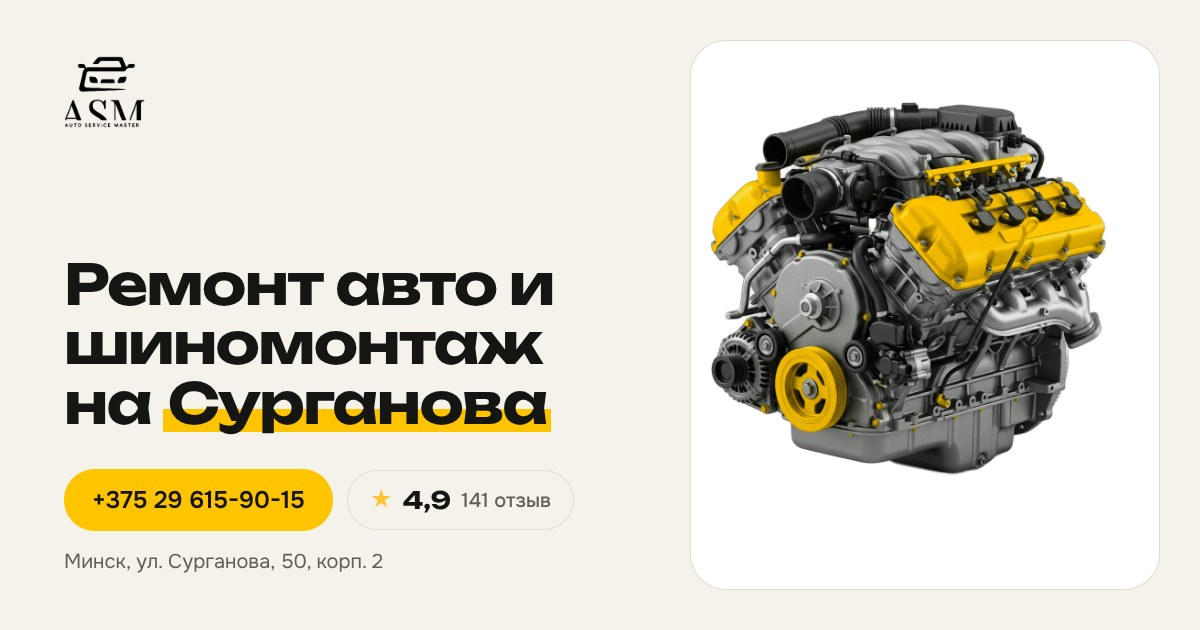
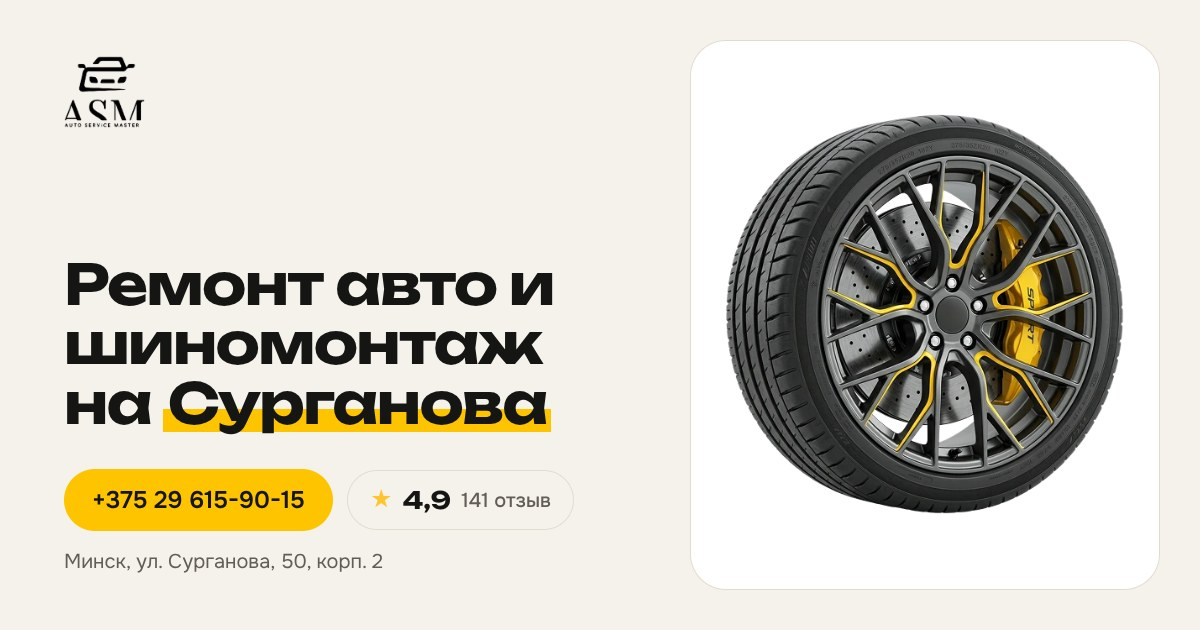
АСМ: вернул колесо с кругом, «Особенно хорошо знаем» — в бегущую строку; метки в карточках без картинки — как обычные, в две колонки
Claude-Session: https://claude.ai/code/session_016NbEm95whaVwUBYNA7vRPL

Changed region(s): [[0.5858, 0.1508, 0.9558, 0.8143]]

diff --git a/avtoservismaster/index.html b/avtoservismaster/index.html
@@ -14,15 +14,15 @@
 <meta property="og:url" content="https://d1trepes.github.io/sites/avtoservismaster/">
 <meta property="og:title" content="АвтоСервисМастер — ремонт авто и шиномонтаж на ул. Сурганова, Минск">
 <meta property="og:description" content="Диагностика, двигатель, ходовая, электрика, DSG, шиномонтаж. Рейтинг 4,9 на Яндекс Картах.">
-<meta property="og:image" content="https://d1trepes.github.io/sites/avtoservismaster/img/og.jpg?v=0b1d86d7">
+<meta property="og:image" content="https://d1trepes.github.io/sites/avtoservismaster/img/og.jpg?v=72bd8a9b">
 <meta property="og:image:width" content="1200">
 <meta property="og:image:height" content="630">
 <meta name="twitter:card" content="summary_large_image">
-<link rel="preload" as="image" href="img/hero-engine-yellow.webp" fetchpriority="high">
+<link rel="preload" as="image" href="photos/hero-wheel.webp" fetchpriority="high">
 <link rel="preconnect" href="https://fonts.googleapis.com">
 <link rel="preconnect" href="https://fonts.gstatic.com" crossorigin>
 <link href="https://fonts.googleapis.com/css2?family=Onest:wght@400;500;600&family=Unbounded:wght@500;700&display=swap" rel="stylesheet">
-<link rel="stylesheet" href="../blank/blank.css?v=0a09c5b5">
+<link rel="stylesheet" href="../blank/blank.css?v=8eac185e">
 <script>document.documentElement.classList.add("js")</script>
 <script type="application/ld+json">
 {
@@ -30,7 +30,7 @@
   "@type": "AutoRepair",
   "name": "АвтоСервисМастер",
   "url": "https://d1trepes.github.io/sites/avtoservismaster/",
-  "image": "https://d1trepes.github.io/sites/avtoservismaster/img/og.jpg?v=0b1d86d7",
+  "image": "https://d1trepes.github.io/sites/avtoservismaster/img/og.jpg?v=72bd8a9b",
   "telephone": "+375296159015",
   "address": {
     "@type": "PostalAddress",
@@ -90,7 +90,7 @@
       <div class="now rv" style="--d:0.25s" data-schedule='[{&quot;d&quot;:[1,2,3,4,5],&quot;from&quot;:9,&quot;to&quot;:19}]' hidden><i></i><span></span></div>
       <div class="trust rv" style="--d:0.3s"><b>4,9</b><div><span class="stars" aria-label="5 из 5"><svg viewBox="0 0 20 20" fill="currentColor" aria-hidden="true"><path d="M10 1.5l2.6 5.5 6 .7-4.5 4.1 1.2 5.9L10 14.8l-5.3 2.9 1.2-5.9L1.4 7.7l6-.7z"/></svg><svg viewBox="0 0 20 20" fill="currentColor" aria-hidden="true"><path d="M10 1.5l2.6 5.5 6 .7-4.5 4.1 1.2 5.9L10 14.8l-5.3 2.9 1.2-5.9L1.4 7.7l6-.7z"/></svg><svg viewBox="0 0 20 20" fill="currentColor" aria-hidden="true"><path d="M10 1.5l2.6 5.5 6 .7-4.5 4.1 1.2 5.9L10 14.8l-5.3 2.9 1.2-5.9L1.4 7.7l6-.7z"/></svg><svg viewBox="0 0 20 20" fill="currentColor" aria-hidden="true"><path d="M10 1.5l2.6 5.5 6 .7-4.5 4.1 1.2 5.9L10 14.8l-5.3 2.9 1.2-5.9L1.4 7.7l6-.7z"/></svg><svg viewBox="0 0 20 20" fill="currentColor" aria-hidden="true"><path d="M10 1.5l2.6 5.5 6 .7-4.5 4.1 1.2 5.9L10 14.8l-5.3 2.9 1.2-5.9L1.4 7.7l6-.7z"/></svg></span><span style="display:block;margin-top:4px">141 отзыв на Яндекс Картах</span></div></div>
     </div>
-    <div class="car m rv" style="--d:0.15s"><img src="img/hero-engine-yellow.webp" alt="Двигатель — ремонт и диагностика двигателей в автосервисе на Сурганова, Минск" fetchpriority="high"></div>
+    <div class="car m circ rv" style="--d:0.15s"><img src="photos/hero-wheel.webp" alt="Колесо с жёлтым диском — шиномонтаж АвтоСервисМастер в Минске" fetchpriority="high"></div>
   </div>
 </section>
 <section id="otzyvy" style="padding-top:0"><div class="wrap">
@@ -122,9 +122,10 @@
       <span class="stars" aria-label="5 из 5"><svg viewBox="0 0 20 20" fill="currentColor" aria-hidden="true"><path d="M10 1.5l2.6 5.5 6 .7-4.5 4.1 1.2 5.9L10 14.8l-5.3 2.9 1.2-5.9L1.4 7.7l6-.7z"/></svg><svg viewBox="0 0 20 20" fill="currentColor" aria-hidden="true"><path d="M10 1.5l2.6 5.5 6 .7-4.5 4.1 1.2 5.9L10 14.8l-5.3 2.9 1.2-5.9L1.4 7.7l6-.7z"/></svg><svg viewBox="0 0 20 20" fill="currentColor" aria-hidden="true"><path d="M10 1.5l2.6 5.5 6 .7-4.5 4.1 1.2 5.9L10 14.8l-5.3 2.9 1.2-5.9L1.4 7.7l6-.7z"/></svg><svg viewBox="0 0 20 20" fill="currentColor" aria-hidden="true"><path d="M10 1.5l2.6 5.5 6 .7-4.5 4.1 1.2 5.9L10 14.8l-5.3 2.9 1.2-5.9L1.4 7.7l6-.7z"/></svg><svg viewBox="0 0 20 20" fill="currentColor" aria-hidden="true"><path d="M10 1.5l2.6 5.5 6 .7-4.5 4.1 1.2 5.9L10 14.8l-5.3 2.9 1.2-5.9L1.4 7.7l6-.7z"/></svg></span><p>Отличный сервис и всегда хороший подход. Возим к ним все свои машины, на шиномонтаж всегда можно быстро попасть.</p>
     </article></div></div>
   </div></div></section>
+<section id="marki" class="sec-marq" style="padding-top:0"><div class="marq rv" aria-label="Дизельные авто, Коммерческий транспорт, Ремонт DSG, Эндоскопия двигателя"><div><span>Дизельные авто</span><span>Коммерческий транспорт</span><span>Ремонт DSG</span><span>Эндоскопия двигателя</span><span>Дизельные авто</span><span>Коммерческий транспорт</span><span>Ремонт DSG</span><span>Эндоскопия двигателя</span><span>Дизельные авто</span><span>Коммерческий транспорт</span><span>Ремонт DSG</span><span>Эндоскопия двигателя</span><span>Дизельные авто</span><span>Коммерческий транспорт</span><span>Ремонт DSG</span><span>Эндоскопия двигателя</span></div></div></section>
 <section id="uslugi" style="padding-top:0"><div class="wrap">
   <h2 class="rv">Что мы делаем</h2>
-  <div class="hlr rv"><b>Особенно хорошо знаем:</b><span><svg viewBox="0 0 24 24" fill="none" stroke="currentColor" stroke-width="2" stroke-linecap="round" stroke-linejoin="round" aria-hidden="true"><path d="M12 3s5 5.5 5 9.5a5 5 0 0 1-10 0C7 8.5 12 3 12 3z"/></svg>Дизельные авто</span><span><svg viewBox="0 0 24 24" fill="none" stroke="currentColor" stroke-width="2" stroke-linecap="round" stroke-linejoin="round" aria-hidden="true"><path d="M2 7h12v9H2zM14 10h4l4 3v3h-8z"/><circle cx="6.5" cy="17.5" r="1.8"/><circle cx="17.5" cy="17.5" r="1.8"/></svg>Коммерческий транспорт</span><span><svg viewBox="0 0 24 24" fill="none" stroke="currentColor" stroke-width="2" stroke-linecap="round" stroke-linejoin="round" aria-hidden="true"><circle cx="5" cy="6" r="2"/><circle cx="12" cy="6" r="2"/><circle cx="19" cy="6" r="2"/><circle cx="5" cy="18" r="2"/><circle cx="12" cy="18" r="2"/><path d="M5 8v8M12 8v8M19 8v4H5"/></svg>Ремонт DSG</span><span><svg viewBox="0 0 24 24" fill="none" stroke="currentColor" stroke-width="2" stroke-linecap="round" stroke-linejoin="round" aria-hidden="true"><circle cx="10" cy="10" r="6"/><path d="M14.5 14.5 21 21"/><circle cx="10" cy="10" r="2"/></svg>Эндоскопия двигателя</span></div><div class="svc side"><article class="sv rv" style="--span:6">
+  <div class="svc side"><article class="sv rv" style="--span:6">
     <div class="pic"><img src="img/svc-engine.webp" alt="Поршень и шестерня ГРМ — ремонт двигателя" loading="lazy" decoding="async"></div>
     <h3>Двигатель и диагностика</h3>
     <div class="chips"><span>Компьютерная диагностика</span><span>Эндоскопия двигателя</span><span>Ремонт двигателя</span><span>Ремонт ГБЦ</span><span>Замена ГРМ</span><span>Ремонт турбокомпрессора</span><span>Система охлаждения</span><span>Топливная система</span><span>Ремонт и чистка форсунок</span><span>Замена масла</span><span>Выхлопная система</span><span>Удаление катализаторов</span></div>

diff --git a/blank/blank.css b/blank/blank.css
@@ -630,11 +630,9 @@ h2 em{font-style:normal;color:var(--ac-tx)}
   .cnt:not(:has(.hrs)) .info .acts{margin:0 0 0 auto}
   .cnt:not(:has(.hrs)) .map{min-height:380px}
 }
-/* карточка услуги без картинки и с небольшим числом меток: метки плитками на всю карточку, вровень с соседней */
+/* карточка услуги без картинки и с небольшим числом меток: обычные метки, но в две колонки на всю ширину карточки */
 @media(min-width:961px){
-  .svc.side .sv:not(:has(.pic)):not(:has(.chips span:nth-child(7))) .chips{display:grid;grid-template-columns:repeat(2,minmax(0,1fr));grid-auto-rows:1fr;align-self:stretch;gap:8px}
-  .svc.side .sv:not(:has(.pic)):not(:has(.chips span:nth-child(7))) .chips span{display:flex;align-items:center;padding:12px 16px;border-radius:var(--r-sm);font-size:15.5px;background:var(--bg2)}
-  [data-theme="светлая"] .svc.side .sv:not(:has(.pic)):not(:has(.chips span:nth-child(7))) .chips span{background:var(--bg)}
+  .svc.side .sv:not(:has(.pic)):not(:has(.chips span:nth-child(7))) .chips{display:grid;grid-template-columns:repeat(2,minmax(0,1fr));gap:8px}
 }
 
 /* ---------- МАСТЕРСКАЯ: компактнее заголовок и первый экран, акцент — подчёркивание ---------- */
@@ -681,4 +679,3 @@ h2 em{font-style:normal;color:var(--ac-tx)}
 [data-style="плакат"] .hero::before{outline:1px solid color-mix(in srgb,var(--on-ac) 22%,transparent);outline-offset:clamp(28px,4vw,56px)}
 [data-style="плакат"] .hero::after{content:"";position:absolute;left:-20px;bottom:-10px;width:min(46vw,520px);height:220px;background-image:radial-gradient(color-mix(in srgb,var(--on-ac) 30%,transparent) 1.6px,transparent 1.8px);background-size:22px 22px;-webkit-mask:radial-gradient(ellipse at 0% 100%,#000 10%,transparent 70%);mask:radial-gradient(ellipse at 0% 100%,#000 10%,transparent 70%);pointer-events:none}
 @media(max-width:900px){[data-style="плакат"] .hero::after{height:160px;width:70vw}}
-@media(min-width:961px){.svc.side .sv:not(:has(.pic)):not(:has(.chips span:nth-child(7))) .chips span:last-child:nth-child(odd){grid-column:span 2}}

diff --git a/tablica/index.html b/tablica/index.html
@@ -36,7 +36,7 @@ dl{display:flex;flex-wrap:wrap;gap:6px 18px;font-size:13px}dt{color:var(--mut);f
 .nt{font-size:13px;color:var(--mut);border-top:1px dashed var(--line);padding-top:10px}
 @media(max-width:760px){.kpi{grid-template-columns:repeat(2,1fr)}.grid{grid-template-columns:1fr}h1{font-size:26px}}
 </style></head><body><div class="w">
-<div class="top"><div><h1>Мои клиенты</h1><p>Сайты для автосервисов · обновлено 25 октября в 13:25</p></div></div>
+<div class="top"><div><h1>Мои клиенты</h1><p>Сайты для автосервисов · обновлено 25 октября в 13:36</p></div></div>
 <div class="kpi">
 <div class="k"><b>11</b><span>всего сервисов</span></div>
 <div class="k"><b>10</b><span>демо ждут звонка</span></div>

diff --git a/gtgarage/index.html b/gtgarage/index.html
@@ -22,7 +22,7 @@
 <link rel="preconnect" href="https://fonts.googleapis.com">
 <link rel="preconnect" href="https://fonts.gstatic.com" crossorigin>
 <link href="https://fonts.googleapis.com/css2?family=Golos+Text:wght@400;500;600&family=Oswald:wght@500;600;700&display=swap" rel="stylesheet">
-<link rel="stylesheet" href="../blank/blank.css?v=0a09c5b5">
+<link rel="stylesheet" href="../blank/blank.css?v=8eac185e">
 <script>document.documentElement.classList.add("js")</script>
 <script type="application/ld+json">
 {

diff --git a/moy-mehanik/index.html b/moy-mehanik/index.html
@@ -22,7 +22,7 @@
 <link rel="preconnect" href="https://fonts.googleapis.com">
 <link rel="preconnect" href="https://fonts.gstatic.com" crossorigin>
 <link href="https://fonts.googleapis.com/css2?family=Golos+Text:wght@400;500;600&family=Oswald:wght@500;600;700&display=swap" rel="stylesheet">
-<link rel="stylesheet" href="../blank/blank.css?v=0a09c5b5">
+<link rel="stylesheet" href="../blank/blank.css?v=8eac185e">
 <script>document.documentElement.classList.add("js")</script>
 <script type="application/ld+json">
 {

diff --git a/sto-777/index.html b/sto-777/index.html
@@ -22,7 +22,7 @@
 <link rel="preconnect" href="https://fonts.googleapis.com">
 <link rel="preconnect" href="https://fonts.gstatic.com" crossorigin>
 <link href="https://fonts.googleapis.com/css2?family=Golos+Text:wght@400;500;600&family=Oswald:wght@500;600;700&display=swap" rel="stylesheet">
-<link rel="stylesheet" href="../blank/blank.css?v=0a09c5b5">
+<link rel="stylesheet" href="../blank/blank.css?v=8eac185e">
 <script>document.documentElement.classList.add("js")</script>
 <script type="application/ld+json">
 {

diff --git a/gans-motors/index.html b/gans-motors/index.html
@@ -22,7 +22,7 @@
 <link rel="preconnect" href="https://fonts.googleapis.com">
 <link rel="preconnect" href="https://fonts.gstatic.com" crossorigin>
 <link href="https://fonts.googleapis.com/css2?family=Onest:wght@400;500;600&family=Unbounded:wght@500;700&display=swap" rel="stylesheet">
-<link rel="stylesheet" href="../blank/blank.css?v=0a09c5b5">
+<link rel="stylesheet" href="../blank/blank.css?v=8eac185e">
 <script>document.documentElement.classList.add("js")</script>
 <script type="application/ld+json">
 {

diff --git a/ulvmontazh/index.html b/ulvmontazh/index.html
@@ -22,7 +22,7 @@
 <link rel="preconnect" href="https://fonts.googleapis.com">
 <link rel="preconnect" href="https://fonts.gstatic.com" crossorigin>
 <link href="https://fonts.googleapis.com/css2?family=Onest:wght@400;500;600&family=Unbounded:wght@500;700&display=swap" rel="stylesheet">
-<link rel="stylesheet" href="../blank/blank.css?v=0a09c5b5">
+<link rel="stylesheet" href="../blank/blank.css?v=8eac185e">
 <script>document.documentElement.classList.add("js")</script>
 <script type="application/ld+json">
 {

diff --git a/avtozveno/index.html b/avtozveno/index.html
@@ -22,7 +22,7 @@
 <link rel="preconnect" href="https://fonts.googleapis.com">
 <link rel="preconnect" href="https://fonts.gstatic.com" crossorigin>
 <link href="https://fonts.googleapis.com/css2?family=Rubik:wght@400;500;600&family=Russo+One&display=swap" rel="stylesheet">
-<link rel="stylesheet" href="../blank/blank.css?v=0a09c5b5">
+<link rel="stylesheet" href="../blank/blank.css?v=8eac185e">
 <script>document.documentElement.classList.add("js")</script>
 <script type="application/ld+json">
 {

diff --git a/sto-starovilenskaya/index.html b/sto-starovilenskaya/index.html
@@ -22,7 +22,7 @@
 <link rel="preconnect" href="https://fonts.googleapis.com">
 <link rel="preconnect" href="https://fonts.gstatic.com" crossorigin>
 <link href="https://fonts.googleapis.com/css2?family=Rubik:wght@400;500;600&family=Russo+One&display=swap" rel="stylesheet">
-<link rel="stylesheet" href="../blank/blank.css?v=0a09c5b5">
+<link rel="stylesheet" href="../blank/blank.css?v=8eac185e">
 <script>document.documentElement.classList.add("js")</script>
 <script type="application/ld+json">
 {

diff --git a/alfamagnit/index.html b/alfamagnit/index.html
@@ -22,7 +22,7 @@
 <link rel="preconnect" href="https://fonts.googleapis.com">
 <link rel="preconnect" href="https://fonts.gstatic.com" crossorigin>
 <link href="https://fonts.googleapis.com/css2?family=Manrope:wght@400;500;600;700;800&display=swap" rel="stylesheet">
-<link rel="stylesheet" href="../blank/blank.css?v=0a09c5b5">
+<link rel="stylesheet" href="../blank/blank.css?v=8eac185e">
 <script>document.documentElement.classList.add("js")</script>
 <script type="application/ld+json">
 {

diff --git a/cts-service/index.html b/cts-service/index.html
@@ -22,7 +22,7 @@
 <link rel="preconnect" href="https://fonts.googleapis.com">
 <link rel="preconnect" href="https://fonts.gstatic.com" crossorigin>
 <link href="https://fonts.googleapis.com/css2?family=Manrope:wght@400;500;600;700;800&display=swap" rel="stylesheet">
-<link rel="stylesheet" href="../blank/blank.css?v=0a09c5b5">
+<link rel="stylesheet" href="../blank/blank.css?v=8eac185e">
 <script>document.documentElement.classList.add("js")</script>
 <script type="application/ld+json">
 {
